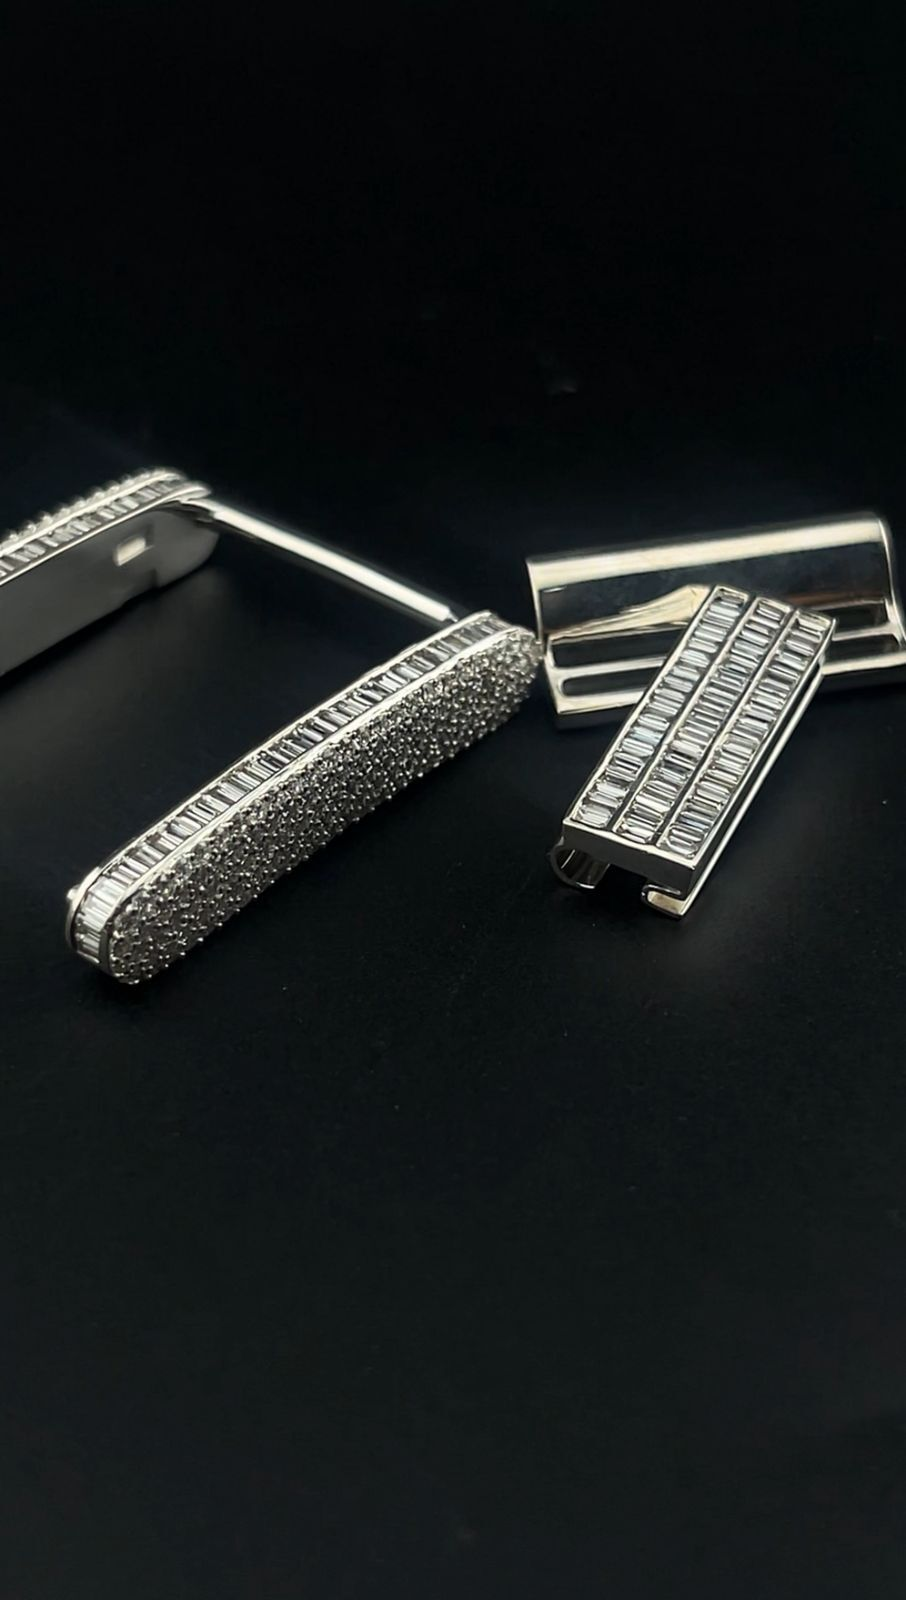
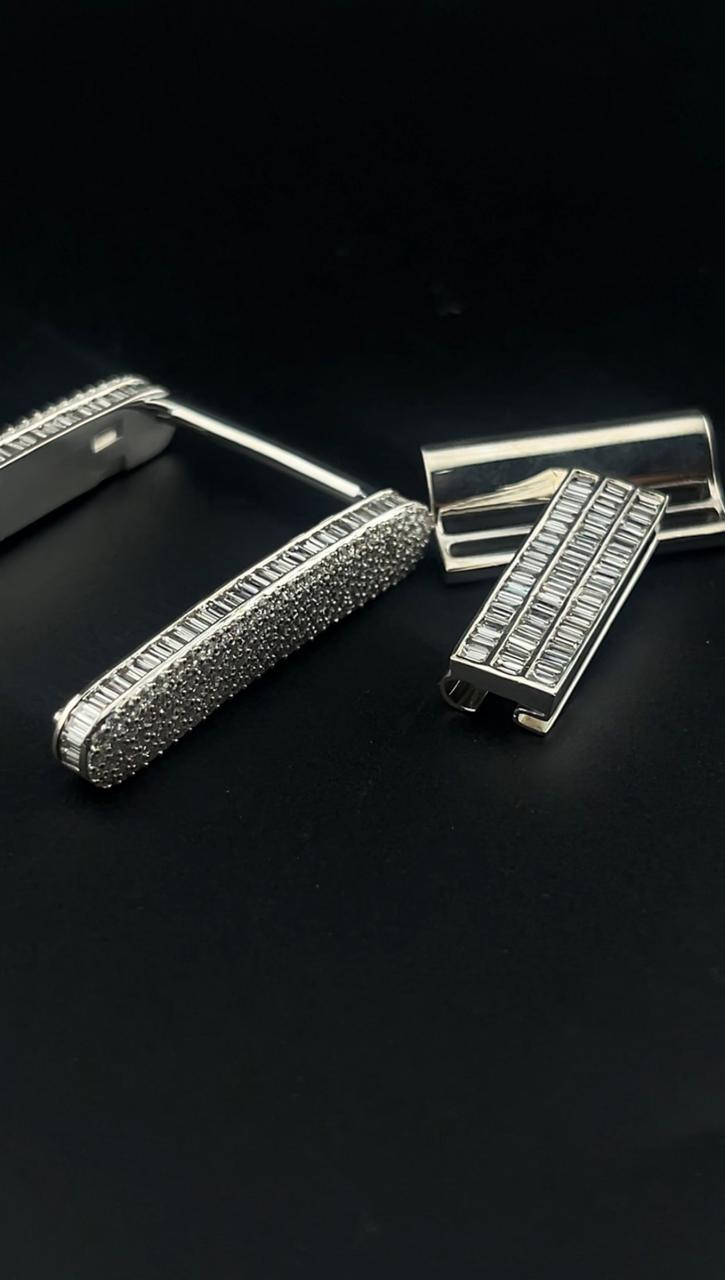
fix: change images.

diff --git a/components/product-gallery.jsx b/components/product-gallery.jsx
@@ -8,16 +8,12 @@ const PLACEHOLDER_IMAGES = [
   "/product/2.jpeg",
   "/product/3.jpeg",
   "/product/4.jpeg",
-  "/product/5.jpeg",
-  "/product/6.jpeg",
 ];
 
 const FALLBACKS = [
   "https://images.unsplash.com/photo-1611591437281-460bfbe1220a?q=80&w=1400",
   "https://images.unsplash.com/photo-1599643477877-530eb83abc8e?q=80&w=1400",
   "https://images.unsplash.com/photo-1605100804763-247f67b3557e?q=80&w=1400",
-  "https://images.unsplash.com/photo-1602173574767-37ac01994b2a?q=80&w=1400",
-  "https://images.unsplash.com/photo-1602173574767-37ac01994b2a?q=80&w=1400",
   "https://images.unsplash.com/photo-1602173574767-37ac01994b2a?q=80&w=1400",
 ];
 